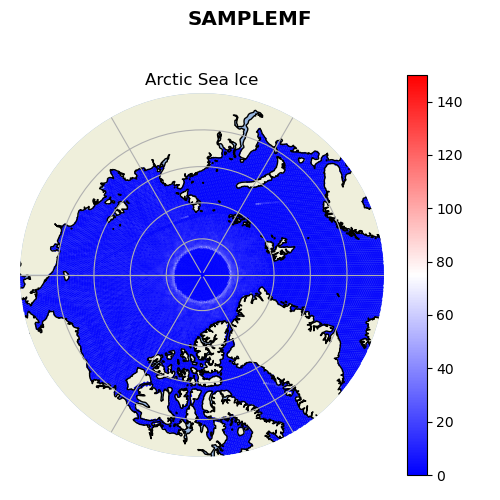
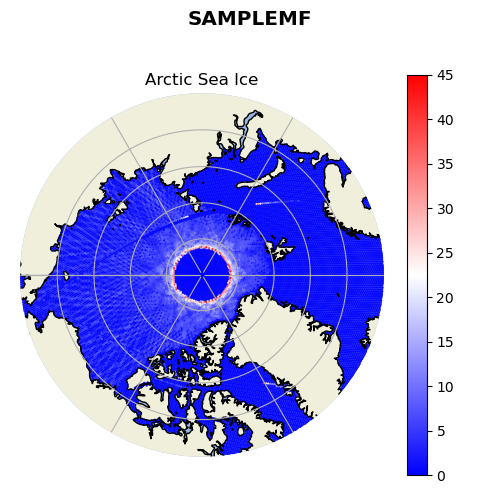
Adjusted color bar

diff --git a/practice_plotting/config.py b/practice_plotting/config.py
@@ -15,8 +15,8 @@ from perlmutterpath import *
 #VARIABLETOPLOT     = "timeDaily_avg_iceAreaCell"   # The variable to plot from the E3SM data
 #VARIABLETOPLOT      = "freeboard"                   # The variable to plot from the satellite data
 #VARIABLETOPLOT      = "meanmf"
-VARIABLETOPLOT      = "samplemf"
-#VARIABLETOPLOT      = "sampleof"
+#VARIABLETOPLOT      = "samplemf"
+VARIABLETOPLOT      = "sampleof"
 
 TIMESTRINGVARIABLE  = "time_string"
 START_TIME_VARIABLE = "xtime_startDaily"
@@ -42,8 +42,10 @@ DEFAULT_DOWNSAMPLE_FACTOR = 100
 VMIN = 0
 #VMAX = 1      # Good for Ice Area
 #VMAX = 0.7    # Good for Freeboard
-VMAX = 150    # for samplemf the max is 295, but there are not many tracks that go above 150 samples; 100 is too low
-#VMAX = 15000  # for sampleof the max is 46893, but there are not that many tracks that go about 15000 samples; 20000 looks ok 
+#VMAX = 150    # for ALL FILES - samplemf the max is 295, but there are not many tracks that go above 150 samples; 100 is too low
+#VMAX = 45      # for spring 2003
+#VMAX = 15000  # for ALL FILES - sampleof the max is 46893, but there are not that many tracks that go about 15000 samples; 20000 looks ok 
+VMAX = 5000
 #VMAX = 1.1 # for meanof
 #VMAX = 1   # for stdof
 
@@ -82,7 +84,7 @@ FULL_PATH = runDir + subdirectory
 
 # Change these to save without overwriting your files
 animationFileName   = "animation.gif"                # Should be a .gif extension
-mapImageFileName    = "samplemf_2003_spring_files_150_max_colorbar.png"             # Should be a .png file extension
+mapImageFileName    = "sampleof_2003_spring_files_5000_max_colorbar.png"             # Should be a .png file extension
 
 ################
 # Map settings #
